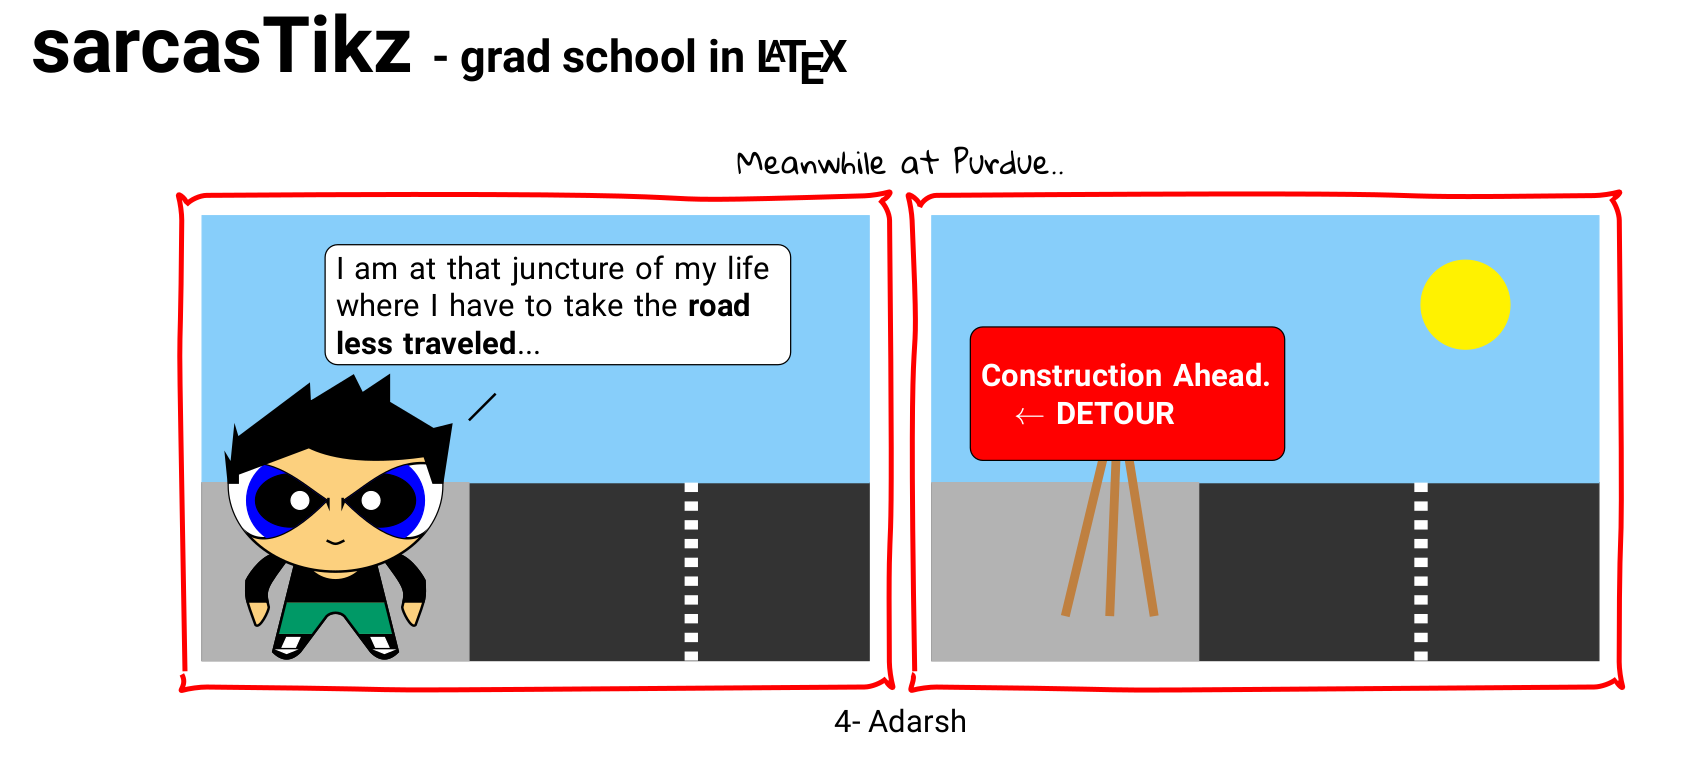
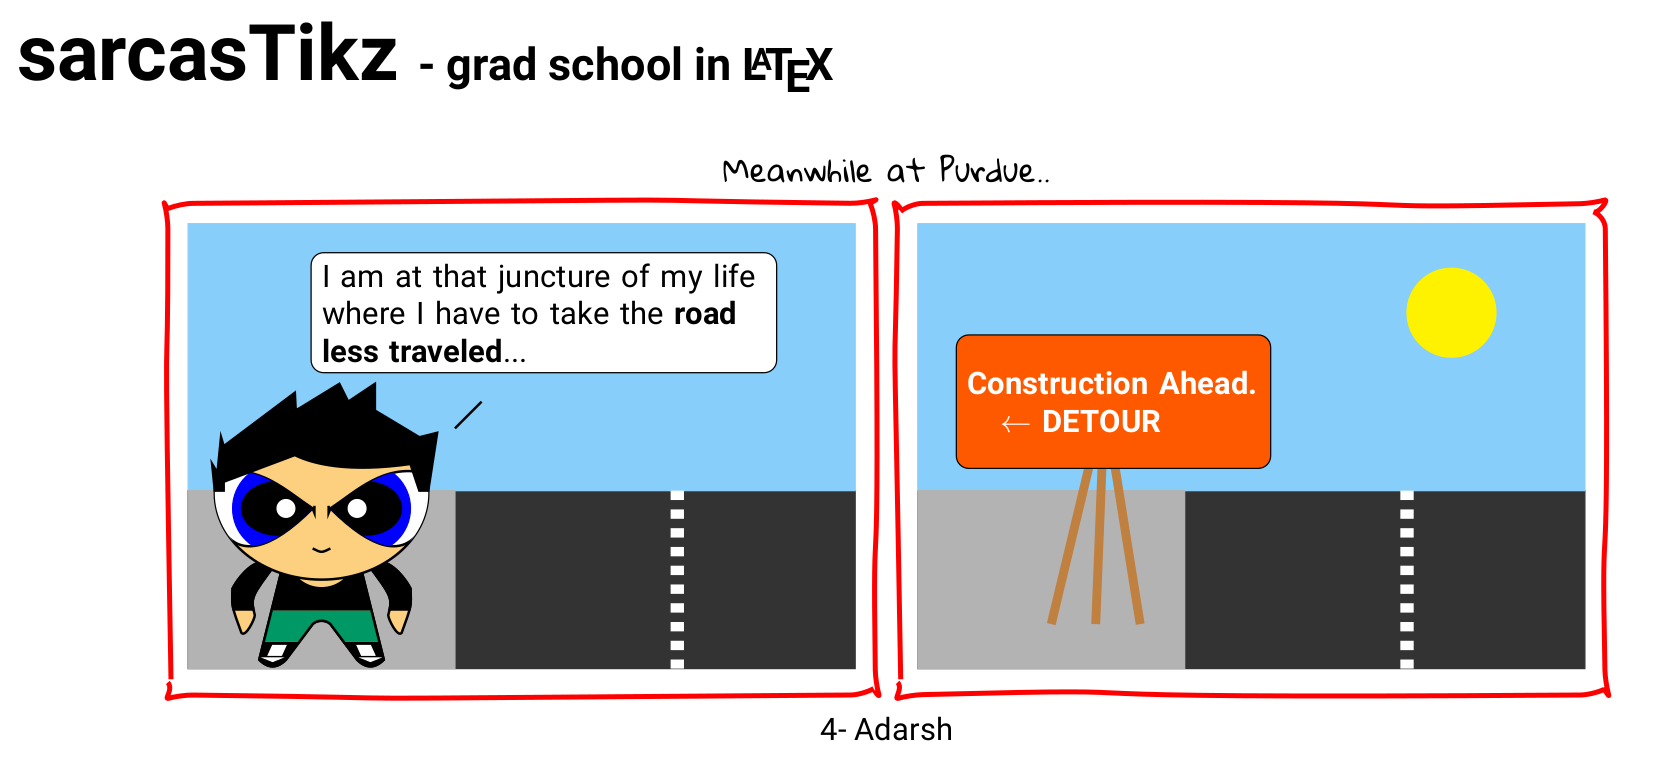
construction at purdue orangish

Changed region(s): [[0.0937, 0.187, 0.9682, 0.9662], [0.0, 0.0, 0.4997, 0.1247]]

diff --git a/document.tex b/document.tex
@@ -207,7 +207,7 @@
 	\filldraw[white!70!black](-2,0) rectangle (1,2);
 	\draw[brown, line width=1mm] (-0.5, 0.5) -- (0.1, 3) -- (0.5, 0.5);
 	\draw[brown, line width=1mm] (0.1, 3) -- (0, 0.5);
-	\node[rectangle,fill= red, white, rounded corners, draw=black, text width=3.3cm, minimum height=1.5cm] at (0.2, 3) {\bf Construction Ahead. \phantom{aa}$\leftarrow$ DETOUR};
+	\node[rectangle,fill= orange!70!red, white, rounded corners, draw=black, text width=3.3cm, minimum height=1.5cm] at (0.2, 3) {\bf Construction Ahead. \phantom{aa}$\leftarrow$ DETOUR};
 	\end{scope}
 	\end{tikzpicture}
 \end{comics}
